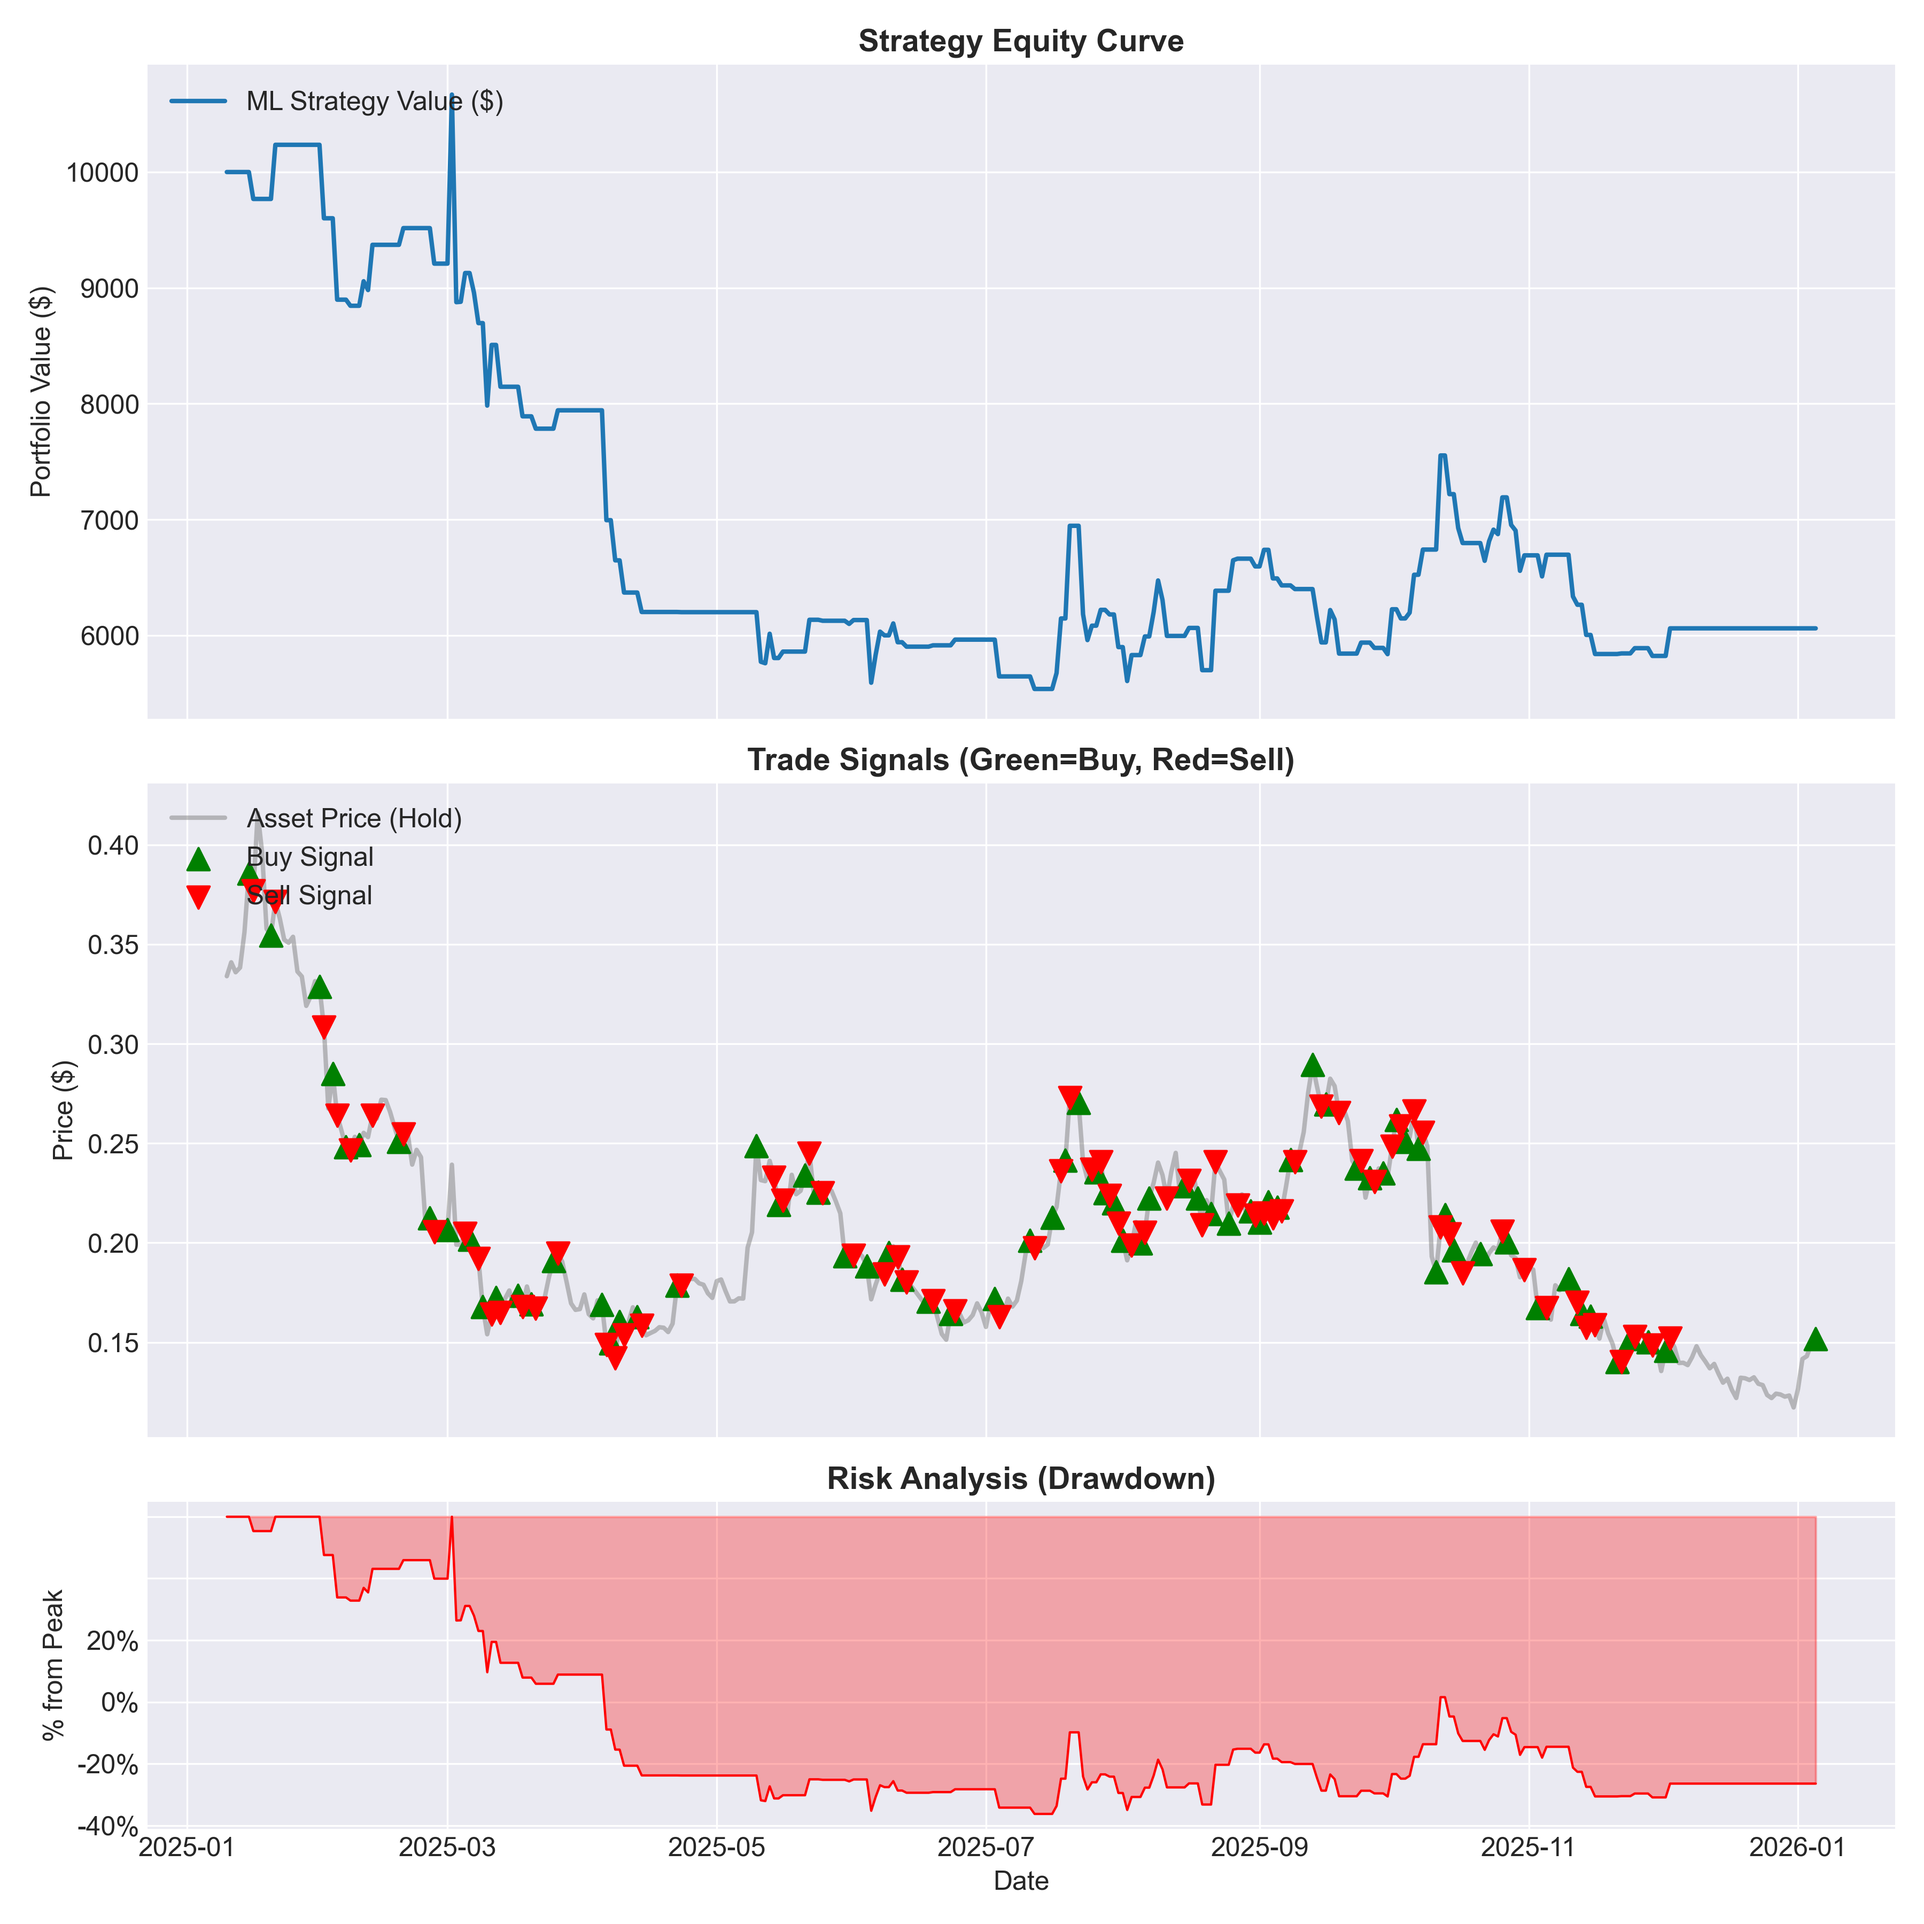
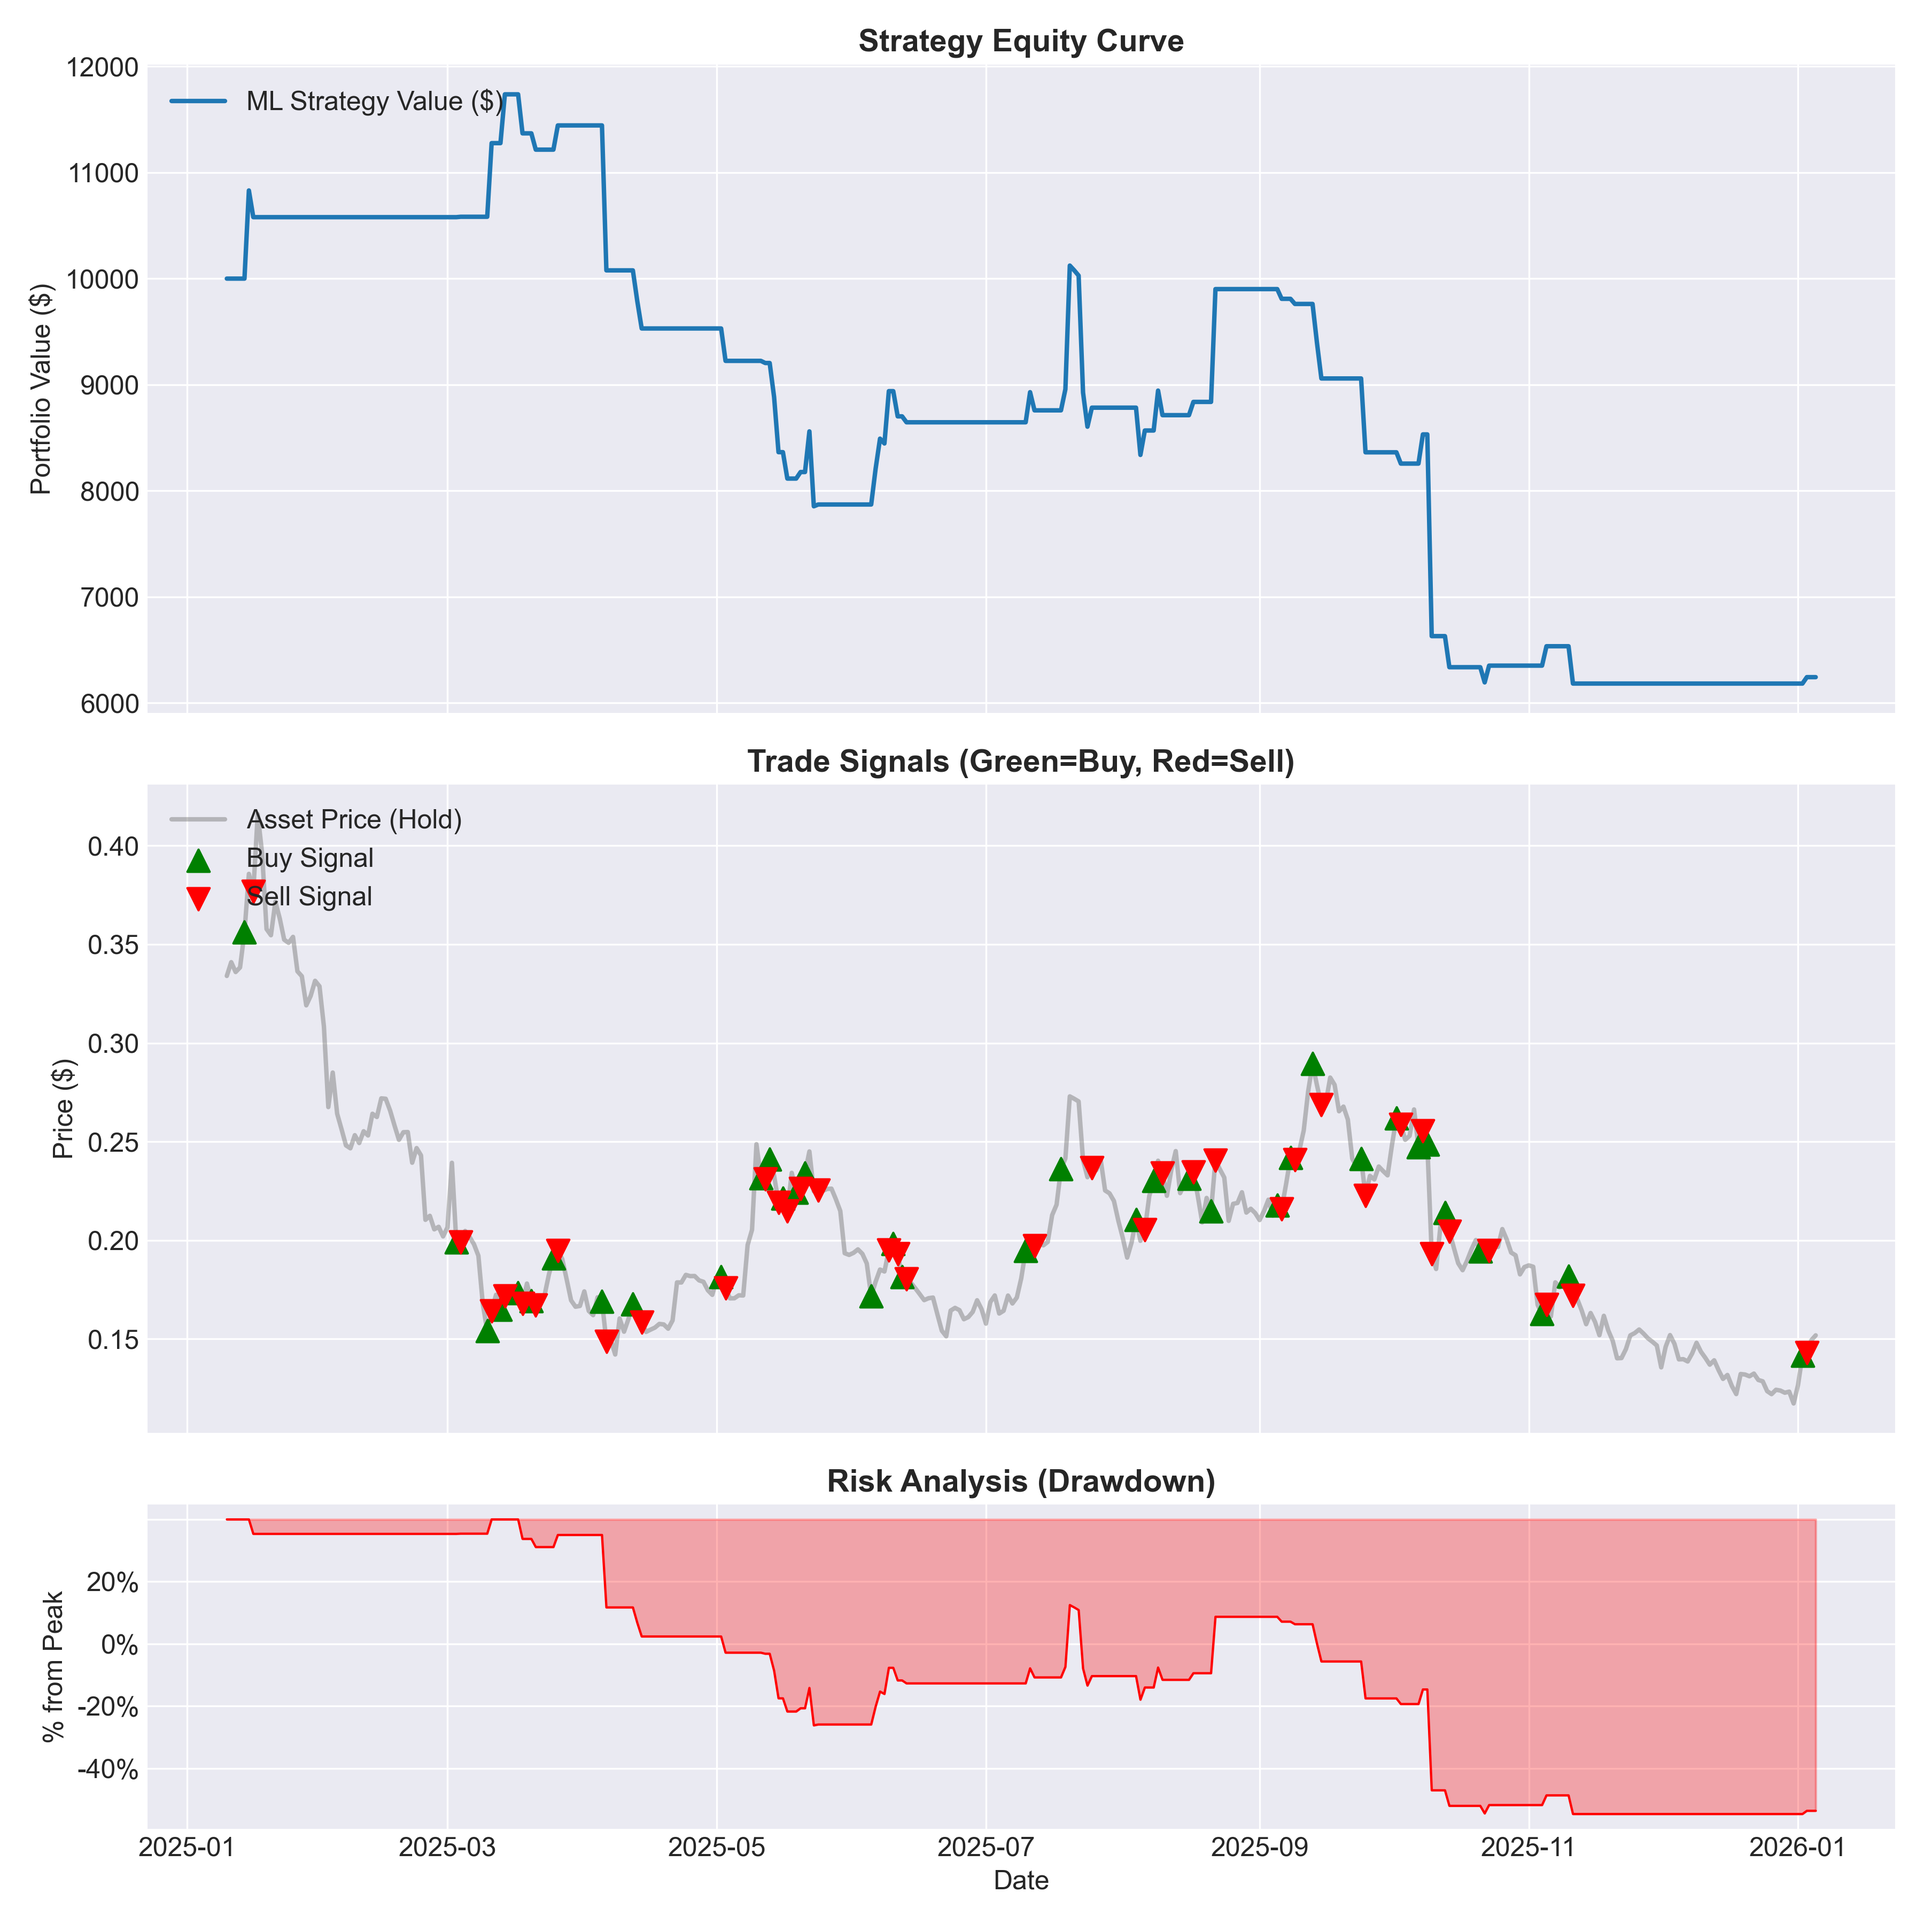
feat: optimize model threshold and remove cardano

diff --git a/src/feature_engineer.py b/src/feature_engineer.py
@@ -29,9 +29,10 @@ def add_technical_indicators(df: pd.DataFrame) -> pd.DataFrame:
     for lag in [1, 2, 3, 7]:
         df[f'return_lag_{lag}'] = df['price'].pct_change().shift(lag)
     
-    # 4. Create Target (1 if Price Up, 0 if Down)
+    # 4. Create Target (1 if Price Up > 0.5%, 0 otherwise)
+    # This "Picky Trader" logic avoids trading on noise or tiny gains typically eaten by fees.
     df['next_day_return'] = df['price'].pct_change().shift(-1)
-    df['target'] = (df['next_day_return'] > 0.0).astype(int)
+    df['target'] = (df['next_day_return'] > 0.005).astype(int)
     
     # 5. Drop NaNs created by windows
     df.dropna(inplace=True)

diff --git a/src/data_loader.py b/src/data_loader.py
@@ -13,8 +13,7 @@ def fetch_crypto_data(coin_id: str, days: int) -> Optional[str]:
         "bitcoin": "BTC-USD",
         "ethereum": "ETH-USD",
         "solana": "SOL-USD",
-        "dogecoin": "DOGE-USD",
-        "cardano": "ADA-USD"
+        "dogecoin": "DOGE-USD"
     }
     
     ticker = ticker_map.get(coin_id.lower())

diff --git a/main.py b/main.py
@@ -97,7 +97,7 @@ def main():
     setup_environment()
 
     # Define supported coins
-    ALL_COINS = ["bitcoin", "ethereum", "solana", "dogecoin", "cardano"]
+    ALL_COINS = ["bitcoin", "ethereum", "solana", "dogecoin"]
     
     if args.coins.lower() == "all":
         target_coins = ALL_COINS
